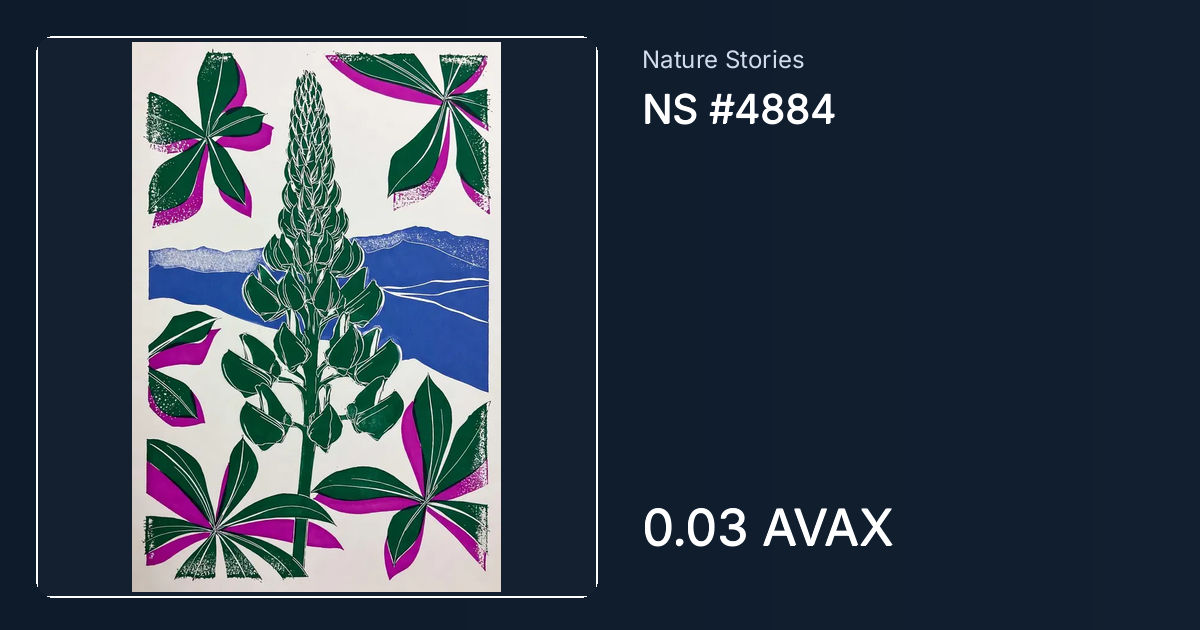
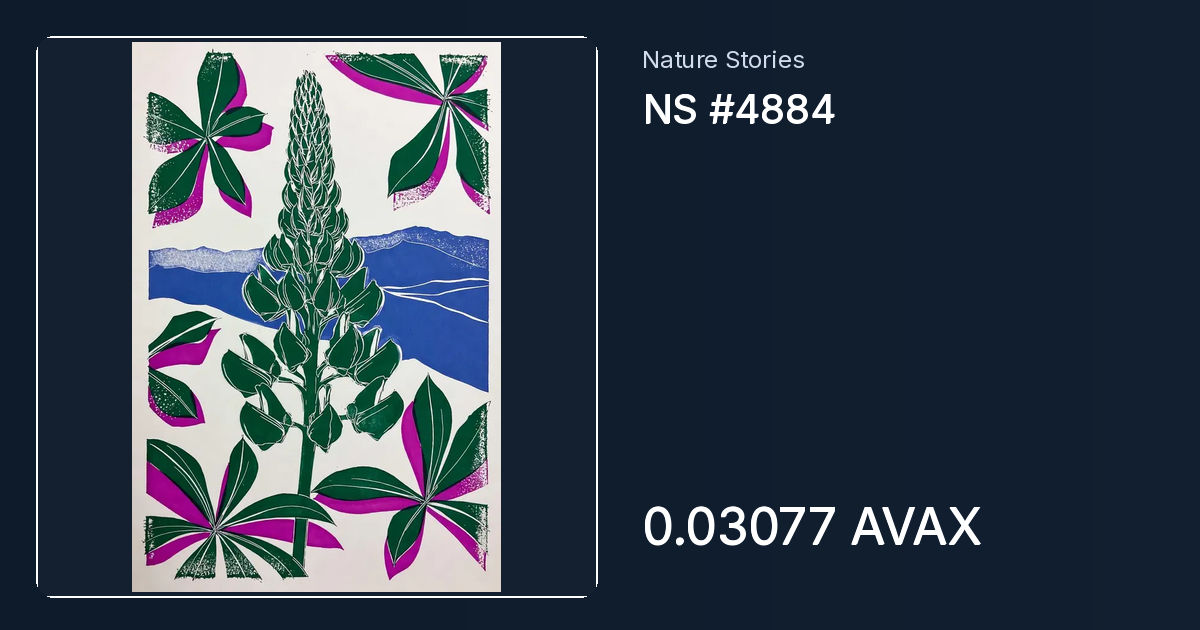
OG landings avalanche_nature_stories

diff --git a/nft/avalanche-nature-stories/2310.html b/nft/avalanche-nature-stories/2310.html
@@ -3,23 +3,23 @@
 <head>
     <meta charset="UTF-8">
     <meta name="viewport" content="width=device-width, initial-scale=1.0">
-    <meta name="description" content="0.03 AVAX · Nature Stories — Listed">
+    <meta name="description" content="0.03077 AVAX · Nature Stories — Listed">
     <title>NS #4884 | Jack Beatnic Gallery</title>
     <meta property="og:type" content="website">
     <meta property="og:url" content="https://jackbeatnic.github.io/nft/avalanche-nature-stories/2310.html">
     <meta property="og:title" content="NS #4884 | Jack Beatnic Gallery">
-    <meta property="og:description" content="0.03 AVAX · Nature Stories — Listed">
-    <meta property="og:image" content="https://jackbeatnic.github.io/assets/og/avalanche-nature-stories-2310.jpg?v=202609190040">
+    <meta property="og:description" content="0.03077 AVAX · Nature Stories — Listed">
+    <meta property="og:image" content="https://jackbeatnic.github.io/assets/og/avalanche-nature-stories-2310.jpg?v=202609192215">
     <meta property="og:image:width" content="1200">
     <meta property="og:image:height" content="630">
     <meta name="twitter:card" content="summary_large_image">
     <meta name="twitter:site" content="@JackBeatnicAI">
     <meta name="twitter:title" content="NS #4884 | Jack Beatnic Gallery">
-    <meta name="twitter:description" content="0.03 AVAX · Nature Stories — Listed">
-    <meta name="twitter:image" content="https://jackbeatnic.github.io/assets/og/avalanche-nature-stories-2310.jpg?v=202609190040">
+    <meta name="twitter:description" content="0.03077 AVAX · Nature Stories — Listed">
+    <meta name="twitter:image" content="https://jackbeatnic.github.io/assets/og/avalanche-nature-stories-2310.jpg?v=202609192215">
     <meta name="twitter:image:alt" content="NS #4884 | Jack Beatnic Gallery">
     <link rel="canonical" href="https://jackbeatnic.github.io/nft/avalanche-nature-stories/2310.html">
-    <script>location.replace("https://jackbeatnic.github.io/?work=2310&collection=avalanche_nature_stories&section=featured");</script>
+    <script>location.replace("https://jackbeatnic.github.io/?work=2310&collection=avalanche_nature_stories&section=ai_art&ai=evm&edition=avalanche");</script>
     <style>
       html,body{margin:0;min-height:100vh;background:#0d1b2a;color:#e8eef6;
       font-family:Inter,system-ui,sans-serif;display:flex;align-items:center;justify-content:center}
@@ -27,6 +27,6 @@
     </style>
 </head>
 <body>
-    <p><a href="https://jackbeatnic.github.io/?work=2310&amp;collection=avalanche_nature_stories&amp;section=featured">Open in Jack Beatnic Gallery</a></p>
+    <p><a href="https://jackbeatnic.github.io/?work=2310&amp;collection=avalanche_nature_stories&amp;section=ai_art&amp;ai=evm&amp;edition=avalanche">Open in Jack Beatnic Gallery</a></p>
 </body>
 </html>
